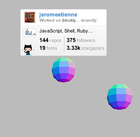
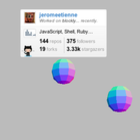
fixed screenshots in homepage

diff --git a/index.html b/index.html
@@ -146,7 +146,23 @@
 <script>
 var items	= []
 //////////////////////////////////////////////////////////////////////////////////
-//		threex.objcoord							//
+//		threex.badtvpproc						//
+//////////////////////////////////////////////////////////////////////////////////
+items.push({
+	name		: 'threex.badtvpproc',
+	demoUrl		: 'http://jeromeetienne.github.io/threex.badtvpproc/examples/demo.html',
+	thumbnailUrl	: 'www/screenshots/threex.badtvpproc.png',
+	repository	: 'https://github.com/jeromeetienne/threex.badtvpproc',
+	tags		: 'postprocessing effect',
+	description	: [
+		'It provides an badtv effect. It is a post processing effect cumulating various shaders.',
+		'It is from the excelent <a href="http://www.airtightinteractive.com/demos/js/badtvshader/">badtv demo</a>',
+		'from <a href="https://twitter.com/felixturner">@felixturner</a>.'
+	].join(' ')
+})
+
+//////////////////////////////////////////////////////////////////////////////////
+//		threex.solidwireframe						// 
 //////////////////////////////////////////////////////////////////////////////////
 items.push({
 	name		: 'threex.solidwireframe',
